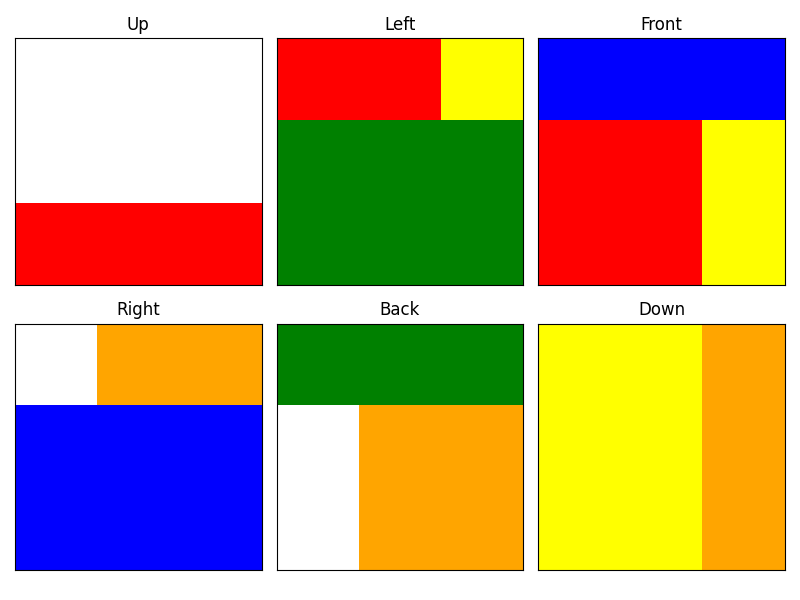
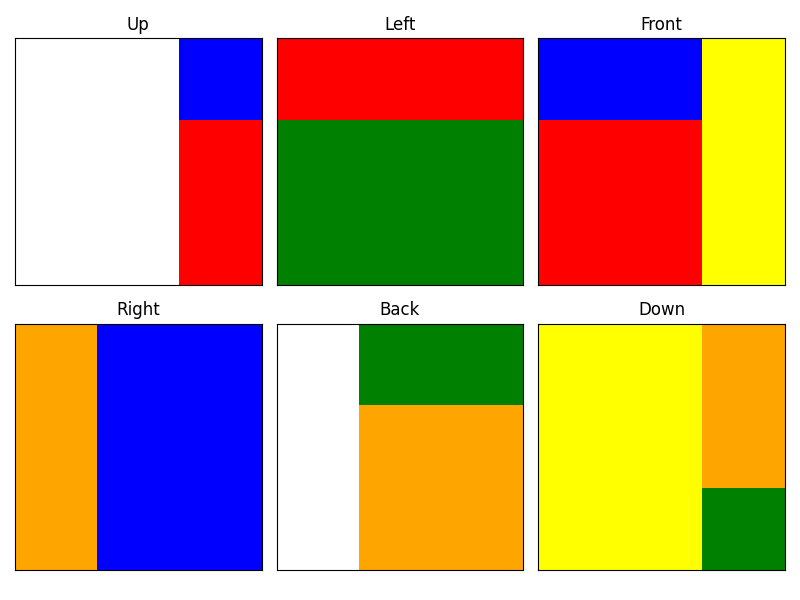
Checkpoint before assistant change: Fix reversed Right View in U R operation
Replit-Commit-Author: Assistant

diff --git a/main.py b/main.py
@@ -159,7 +159,7 @@ def main():
     # 创建魔方实例（初始为已解决状态）
     cube = SimpleRubiksCube()
     # 定义打乱公式，例如 "R U R' U'"
-    algorithm = "R U'"
+    algorithm = "U R"
     print("应用公式:", algorithm)
     cube.apply_algorithm(algorithm)
 
